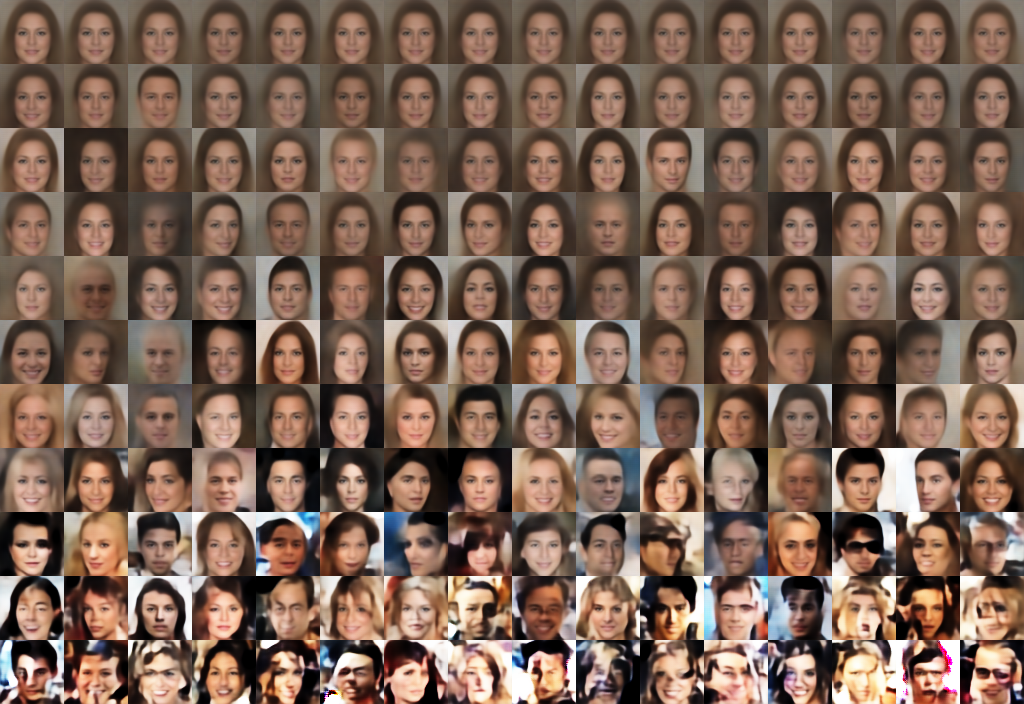
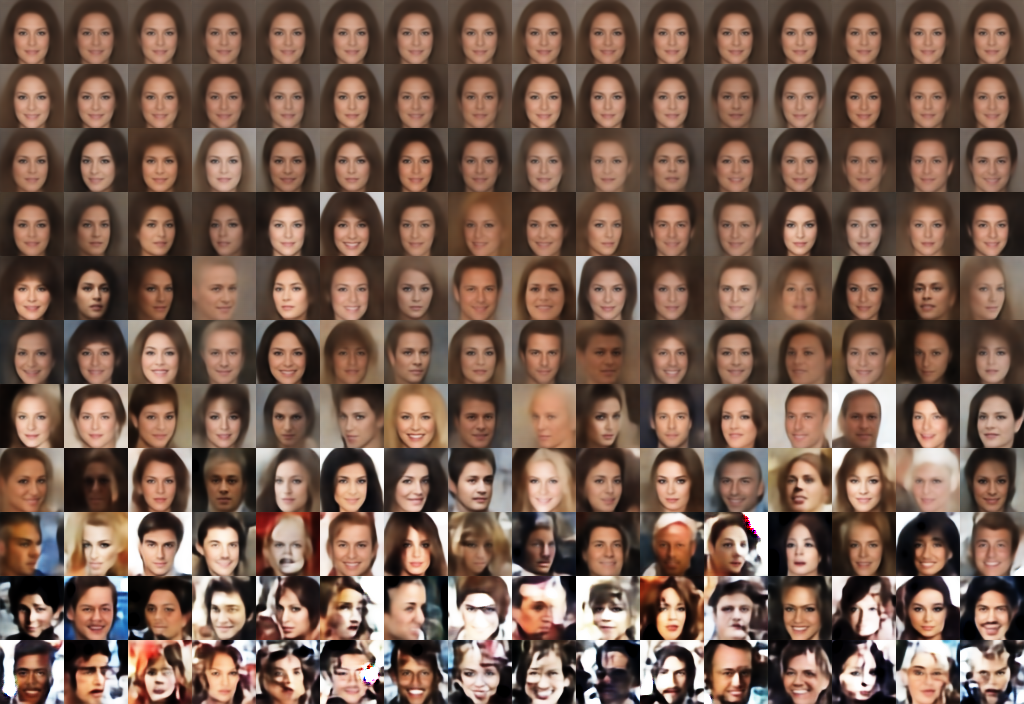
feature: replace mse with log-cosh loss
updated readme
modified guild file to show type of model trained
log-cosh idea from https://openreview.net/pdf?id=rkglvsC9Ym

diff --git a/vae/architecture/prediction.py b/vae/architecture/prediction.py
@@ -2,11 +2,11 @@ from itertools import product
 from PIL import Image, ImageFont, ImageDraw
 import numpy as np
 import torch
-import torch.nn.functional as F
 from pydantic import BaseModel
 from typing import Tuple, Optional, List
 
 from vae import problem
+from vae.architecture import module
 
 
 class Prediction(BaseModel):
@@ -68,15 +68,15 @@ class PredictionBatch(BaseModel):
 
     def loss(self, examples, kl_weights):
         return (
-            self.mse(examples)
+            self.mean_log_cosh(examples)
             + sum([w * kl for w, kl in zip(kl_weights, self.kl_losses)])
         )
 
-    def mse(self, examples):
-        return F.mse_loss(
-            input=self.predicted_image,
-            target=self.stack_images(examples),
-        )
+    def mean_log_cosh(self, examples):
+        return module.log_cosh(
+            self.predicted_image
+            - self.stack_images(examples)
+        ).mean()
 
     def cpu(self):
         return PredictionBatch(**{

diff --git a/vae/metrics.py b/vae/metrics.py
@@ -20,9 +20,9 @@ def train_metrics():
             epoch_bound=False,
             alpha=1e-7,
         ),
-        mse=ignite.metrics.RunningAverage(
+        mean_log_cosh=ignite.metrics.RunningAverage(
             output_transform=lambda output: (
-                output['predictions'].mse(output['examples'])
+                output['predictions'].mean_log_cosh(output['examples'])
             ),
             epoch_bound=False,
             alpha=1e-7,
@@ -50,8 +50,8 @@ def evaluate_metrics():
         loss=ignite.metrics.Average(
             lambda output: output['loss']
         ),
-        mse=ignite.metrics.Average(lambda output: (
-            output['predictions'].mse(output['examples'])
+        mean_log_cosh=ignite.metrics.Average(lambda output: (
+            output['predictions'].mean_log_cosh(output['examples'])
         )),
         kl=ignite.metrics.Average(lambda output: (
             torch.tensor(output['predictions'].kl_losses)

diff --git a/vae/architecture/module/__init__.py b/vae/architecture/module/__init__.py
@@ -1,5 +1,6 @@
 from vae.architecture.module.swish import Swish
 from vae.architecture.module.mish import mish
+from vae.architecture.module.log_cosh import log_cosh
 from vae.architecture.module.random_fourier import RandomFourier
 from vae.architecture.module.conv_pixel_shuffle import ConvPixelShuffle
 from vae.architecture.module.variational import (

diff --git a/vae/architecture/module/log_cosh.py b/vae/architecture/module/log_cosh.py
@@ -1,0 +1,8 @@
+import torch
+import torch.nn.functional as F
+from math import log
+
+
+@torch.jit.script
+def log_cosh(x):
+    return x + F.softplus(-2 * x) - log(2)
